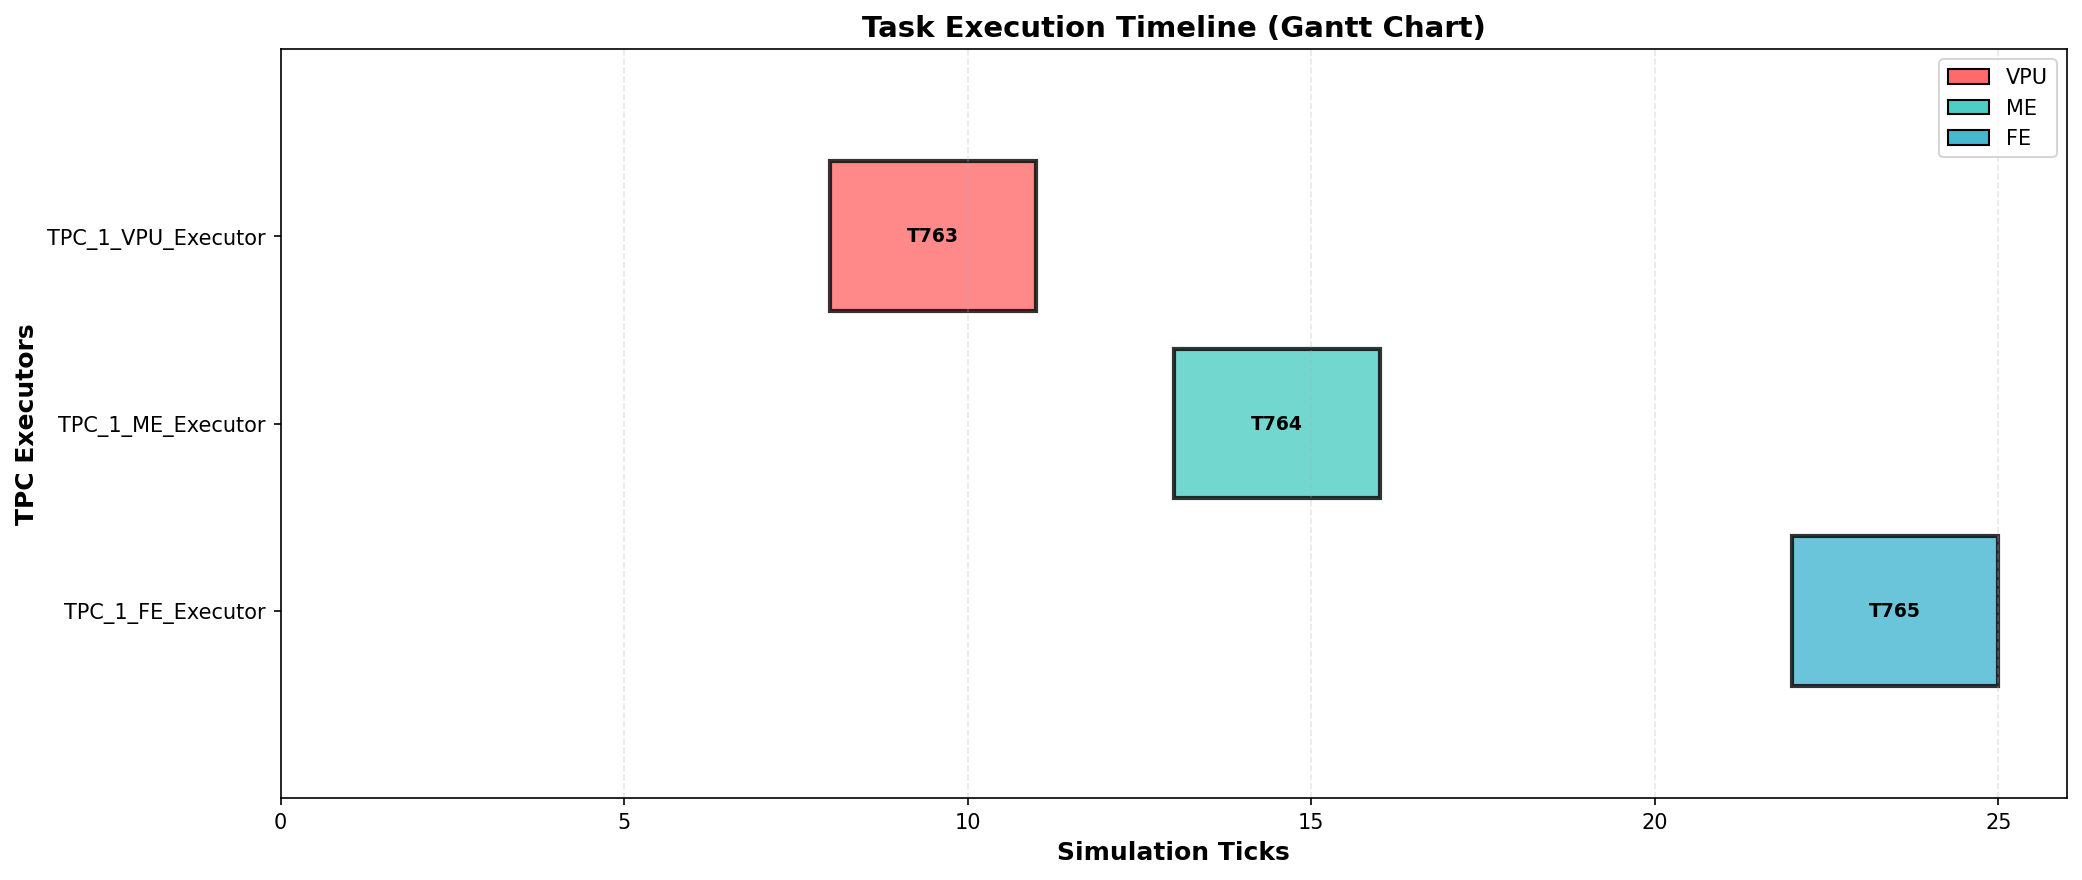
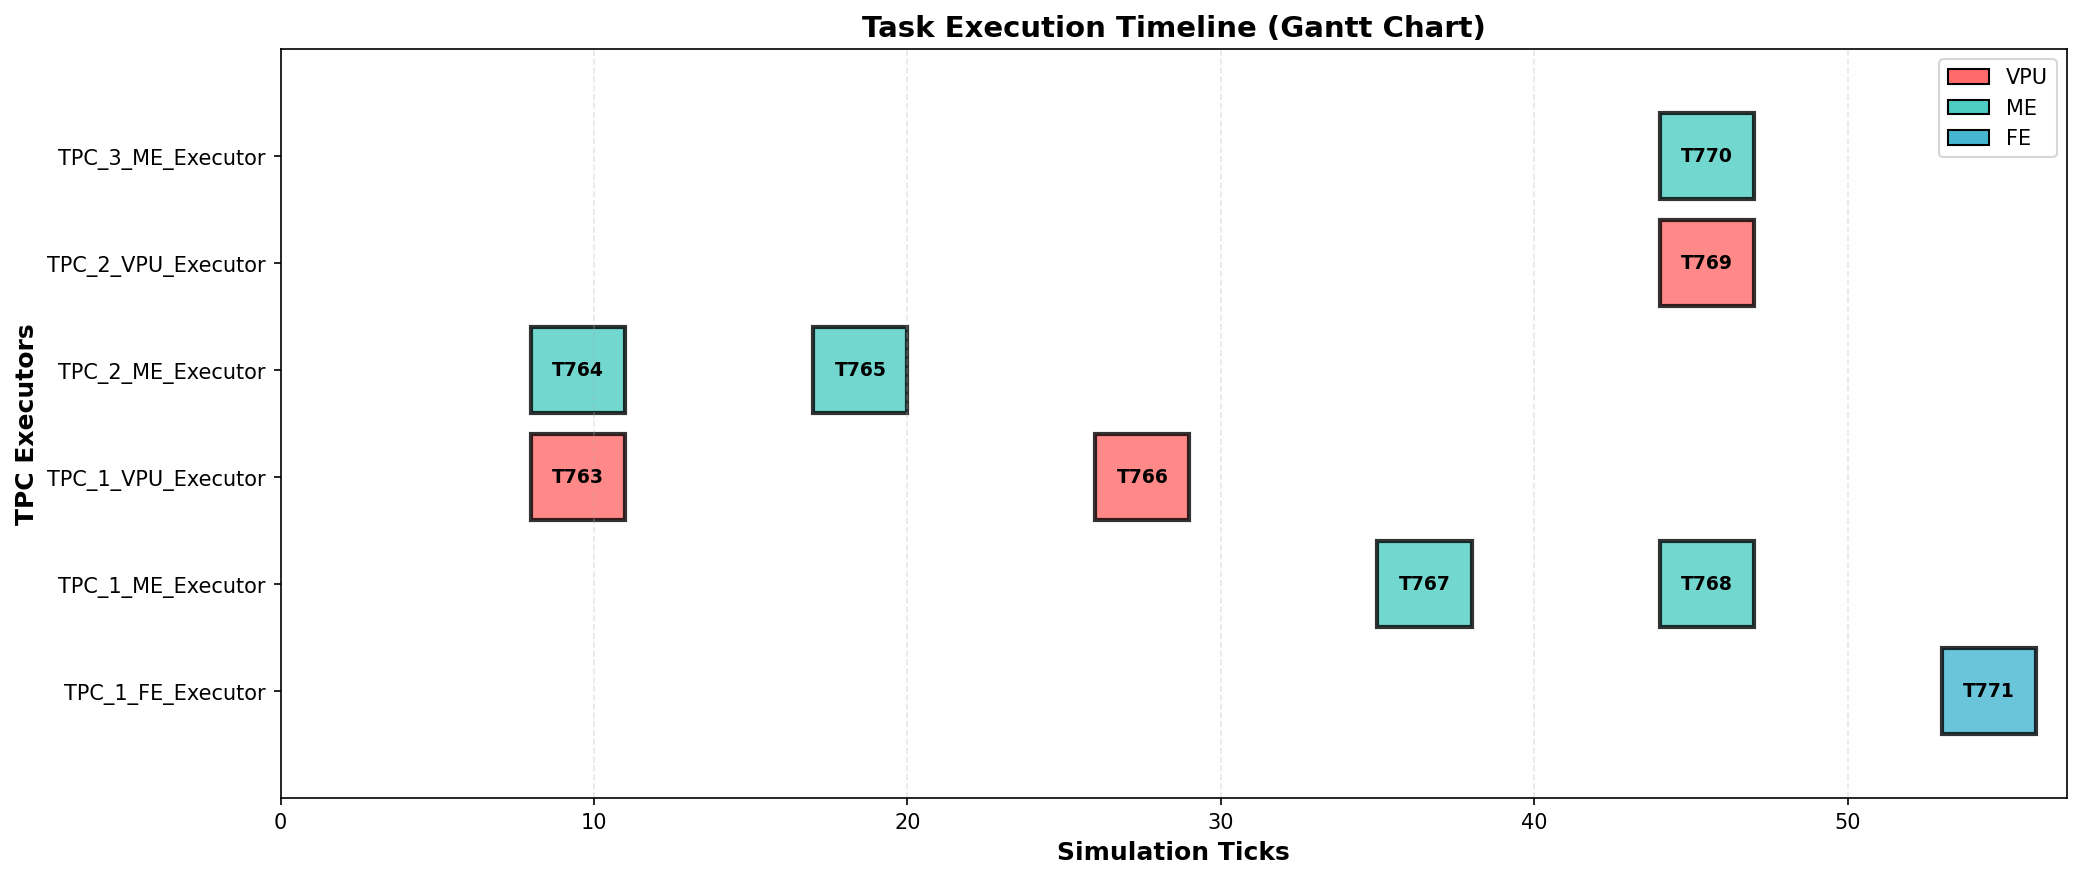
fix tpc issues

diff --git a/index.html b/index.html
@@ -75,18 +75,43 @@
             margin: 8px 0;
             line-height: 1.6;
         }
+        #loading {
+            display: none;
+            text-align: center;
+            padding: 20px;
+            color: #667eea;
+        }
+        .spinner {
+            border: 4px solid #f3f3f3;
+            border-top: 4px solid #667eea;
+            border-radius: 50%;
+            width: 30px;
+            height: 30px;
+            animation: spin 1s linear infinite;
+            margin: 0 auto;
+        }
+        @keyframes spin {
+            0% { transform: rotate(0deg); }
+            100% { transform: rotate(360deg); }
+        }
     </style>
 </head>
 <body>
     <div class="container">
         <h1>📊 Task Execution Analysis Dashboard</h1>
         
-        <div class="summary">
+        <div id="loading">
+            <div class="spinner"></div>
+            <p>Loading simulation data...</p>
+        </div>
+        
+        <div class="summary" id="summary">
             <h2>Simulation Summary</h2>
-            <p><strong>Total Tasks:</strong> 3</p>
-            <p><strong>Total Simulation Time:</strong> 23 ticks</p>
-            <p><strong>Task Types:</strong> VPU, ME, FE</p>
-            <p><strong>TPC Count:</strong> 1 (TPC_1)</p>
+            <p><strong>Total Tasks:</strong> <span id="totalTasks">-</span></p>
+            <p><strong>Total Simulation Time:</strong> <span id="totalTime">-</span> ticks</p>
+            <p><strong>Task Types:</strong> <span id="taskTypes">-</span></p>
+            <p><strong>TPC Count:</strong> <span id="tpcCount">-</span></p>
+            <p><strong>Last Updated:</strong> <span id="lastUpdated">-</span></p>
         </div>
         
         <div class="gallery">
@@ -123,5 +148,66 @@
             </div>
         </div>
     </div>
+
+    <script>
+        async function loadTasksData() {
+            try {
+                document.getElementById('loading').style.display = 'block';
+
+                const response = await fetch('tasks.json');
+                if (!response.ok) {
+                    throw new Error(`HTTP error! status: ${response.status}`);
+                }
+                const data = await response.json();
+
+                document.getElementById('loading').style.display = 'none';
+
+                updateSummary(data);
+            } catch (error) {
+                console.error('Error loading tasks.json:', error);
+                document.getElementById('loading').innerHTML = 
+                    '<p style="color: #d32f2f;">Error loading tasks.json: ' + error.message + '</p>';
+            }
+        }
+
+        function updateSummary(data) {
+            const taskTypes = new Set();
+            const tpcExecutors = new Set();
+            
+            data.tasks.forEach(task => {
+                taskTypes.add(task.type);
+                const tpcMatch = task.executor.match(/TPC_\d+/);
+                if (tpcMatch) {
+                    tpcExecutors.add(tpcMatch[0]);
+                }
+            });
+
+            let maxEnd = 0;
+            data.tasks.forEach(task => {
+                const taskEnd = task.timing.end_time;
+                if (taskEnd > maxEnd) {
+                    maxEnd = taskEnd;
+                }
+            });
+
+            const taskTypesStr = Array.from(taskTypes).sort().join(', ');
+            const tpcList = Array.from(tpcExecutors).sort().join(', ');
+            const tpcCount = tpcExecutors.size;
+
+            const timestamp = new Date(data.export_timestamp).toLocaleString();
+
+            document.getElementById('totalTasks').textContent = data.total_tasks;
+            document.getElementById('totalTime').textContent = maxEnd;
+            document.getElementById('taskTypes').textContent = taskTypesStr;
+            document.getElementById('tpcCount').textContent = tpcCount + ' (' + tpcList + ')';
+            document.getElementById('lastUpdated').textContent = timestamp;
+        }
+
+        if (document.readyState === 'loading') {
+            document.addEventListener('DOMContentLoaded', loadTasksData);
+        } else {
+            loadTasksData();
+        }
+    </script>
 </body>
 </html>

diff --git a/components/GlobalWorker.py b/components/GlobalWorker.py
@@ -28,35 +28,30 @@ class GlobalWorker(Unit):
         if not self._queue:
             return
 
-        candidate_task = self._queue[0]
+        while self._queue:
+            candidate_task = self._queue[0]
 
-        # 1. Проверяем, есть ли уже TPC, которому принадлежит диапазон HBM
-        assigned_tpc = self._find_tpc_by_hbm_range(candidate_task)
-
-        self.log(f"Assigned TPC from HBM range: {assigned_tpc}")
-
-        # 2. Если нет, ищем наименее загруженный TPC
-        if assigned_tpc is None:
-            for tpc in sorted(self._tpcs, key=lambda t: t.get_total_task_count()):
-                if not any(Memory.ranges_overlap(
-                    candidate_task.addr_start, candidate_task.addr_end, s, e
-                ) for s, e, _ in self.hbm):
-                    assigned_tpc = tpc
-                    break
+            assigned_tpc = self._find_tpc_by_hbm_range(candidate_task)
+            self.log(f"Assigned TPC from HBM range: {assigned_tpc}")
 
             if assigned_tpc is None:
-                self.log("All TPCs are busy or memory ranges conflict, waiting...")
-                return
+                for tpc in sorted(self._tpcs, key=lambda t: (t.get_workload(), t.get_total_task_count())):
+                    if not any(
+                        Memory.ranges_overlap(candidate_task.addr_start, candidate_task.addr_end, s, e)
+                        for s, e, _ in self.hbm
+                    ):
+                        assigned_tpc = tpc
+                        break
 
-        # 3. Резервируем диапазон памяти
-        self.log(f"Assigning {candidate_task} to {assigned_tpc.name}")
-        Memory.allocate(
-            self.hbm, candidate_task.addr_start, candidate_task.addr_end, assigned_tpc
-        )
+                if assigned_tpc is None:
+                    self.log("All TPCs are busy or memory ranges conflict, waiting...")
+                    break
 
-        # 4. Назначаем задачу TPC и сохраняем ссылку на TPC
-        candidate_task.assigned_tpc = assigned_tpc
-        assigned_tpc.add_task(self._queue.pop(0), self._on_complete_task)
+            self.log(f"Assigning {candidate_task} to {assigned_tpc.name}")
+            Memory.allocate(self.hbm, candidate_task.addr_start, candidate_task.addr_end, assigned_tpc)
+
+            candidate_task.assigned_tpc = assigned_tpc
+            assigned_tpc.add_task(self._queue.pop(0), self._on_complete_task)
 
     def _on_complete_task(self, task: "Task"):
         self.log(f"{task} completed and collected")

diff --git a/main.py b/main.py
@@ -4,13 +4,30 @@ from components import CommandExecutor, Task, TaskType, TaskExporter, PlotGenera
 def main():
     print("Start program")
 
-    executor = CommandExecutor(tpc_count=1)
+    executor = CommandExecutor(tpc_count=8)
 
     tasks = [
-        Task(0, 9, TaskType.VPU),
-        Task(10, 19, TaskType.ME),
-        Task(5, 14, TaskType.FE),
+        Task(0, 10, TaskType.VPU),
+        Task(15, 50, TaskType.ME),
+        Task(15, 50, TaskType.ME),
+        Task(0, 50, TaskType.VPU),
+        Task(20, 70, TaskType.ME),
+        Task(15, 50, TaskType.ME),
+        Task(70, 80, TaskType.VPU),
+        Task(88, 90, TaskType.ME),
+        Task(40, 50, TaskType.FE),
     ]
+
+    # tasks = [
+    #     Task(0, 10, TaskType.VPU),
+    #     Task(11, 20, TaskType.VPU),
+    #     Task(21, 30, TaskType.VPU),
+    #     Task(31, 40, TaskType.VPU),
+    #     Task(41, 50, TaskType.VPU),
+    #     Task(51, 60, TaskType.VPU),
+    #     Task(61, 70, TaskType.VPU),
+    #     Task(71, 80, TaskType.VPU),
+    # ]
 
     print("\nInitial tasks:")
     for t in tasks:
@@ -19,21 +36,21 @@ def main():
     completed_tasks, total_ticks = executor.execute(tasks)
 
     executor.print_summary()
-    
-    print("\n" + "="*60)
+
+    print("\n" + "=" * 60)
     print("Completed tasks with timing information:")
-    print("="*60)
+    print("=" * 60)
     for t in completed_tasks:
         print(t)
-    
-    print("\n" + "="*60)
+
+    print("\n" + "=" * 60)
     print("Exporting results to tasks.json...")
-    print("="*60)
+    print("=" * 60)
     TaskExporter.export_to_json(completed_tasks, "tasks.json")
-    
-    print("\n" + "="*60)
+
+    print("\n" + "=" * 60)
     print("Generating visualization plots...")
-    print("="*60)
+    print("=" * 60)
     PlotGenerator.generate_all_plots(completed_tasks, total_ticks, output_dir=".")
 
     print("End program")

diff --git a/components/TPC.py b/components/TPC.py
@@ -16,7 +16,7 @@ class TPC(Unit):
         self._ME_executor = TPC_Executor(self, TaskType.ME)
         self._FE_executor = TPC_Executor(self, TaskType.FE)
         self._TPC_CU = TPC_CU(self)
-        self._current_tick = 0  # Track current tick
+        self._current_tick = 0
 
     def set_current_tick(self, tick: int):
         self._current_tick = tick
@@ -26,6 +26,12 @@ class TPC(Unit):
 
     def get_total_task_count(self) -> int:
         return self._TPC_CU.get_queue_length()
+
+    def get_workload(self) -> int:
+        cu_queue_len = self._TPC_CU.get_queue_length()
+        noc_used = len(self._TPC_CU.noc)
+        active_executors = sum(1 for ex in (self._VPU_executor, self._ME_executor, self._FE_executor) if ex.get_active_task() is not None)
+        return cu_queue_len + noc_used + active_executors
 
     def add_task(self, task: "Task", callback_on_complete: Callable[["Task"], None]):
         self._TPC_CU.add_task(task, callback_on_complete)

diff --git a/components/TPC_Executor.py b/components/TPC_Executor.py
@@ -23,7 +23,7 @@ class TPC_Executor(Unit):
         self._task_type: "TaskType" = task_type
         self._active_task: Optional["Task"] = None
         self._callback_on_complete: Optional[Callable[["Task"], None]] = None
-        self._current_tick: int = 0  # Track current tick
+        self._current_tick: int = 0
 
     def get_active_task(self) -> Optional["Task"]:
         return self._active_task
